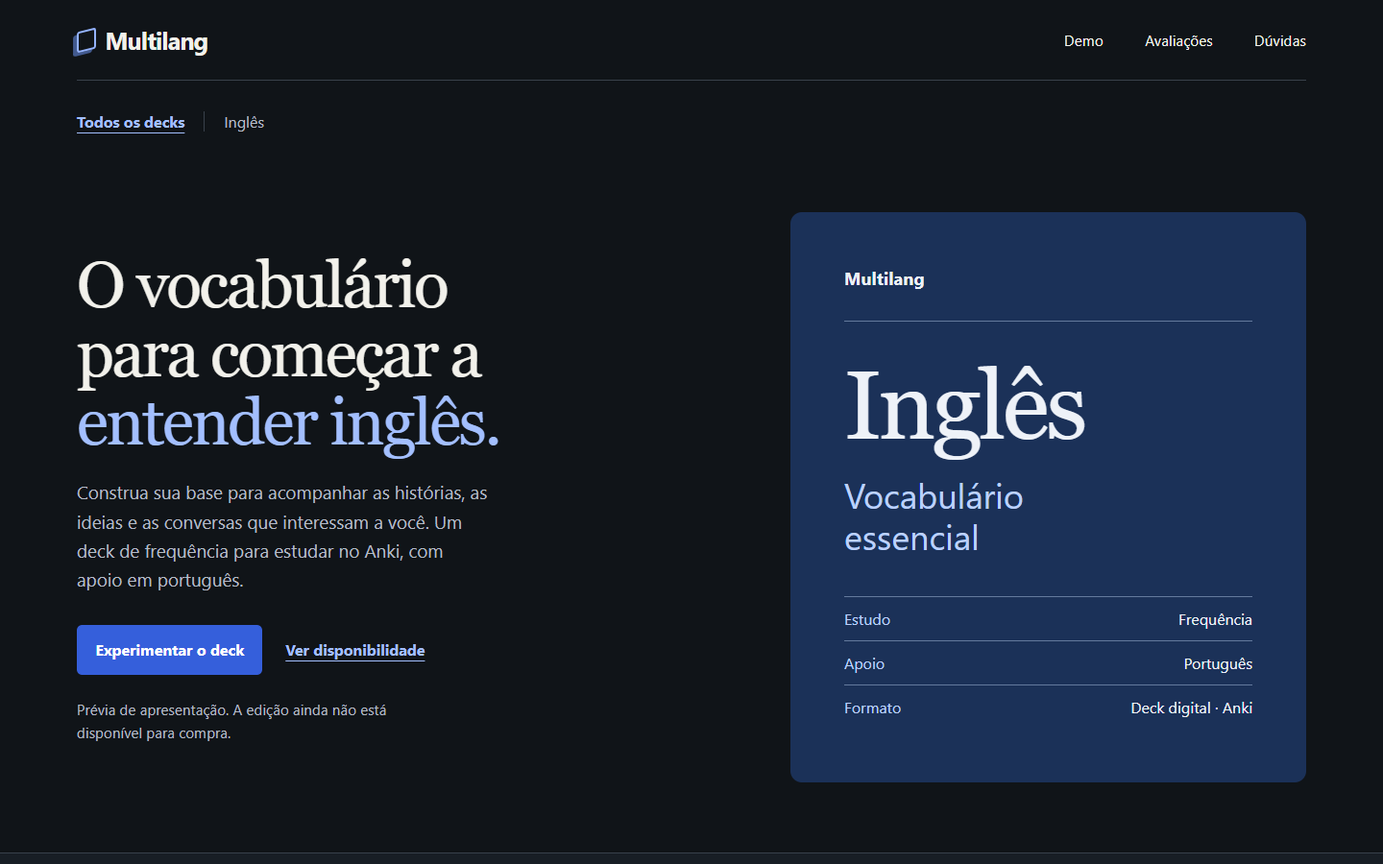
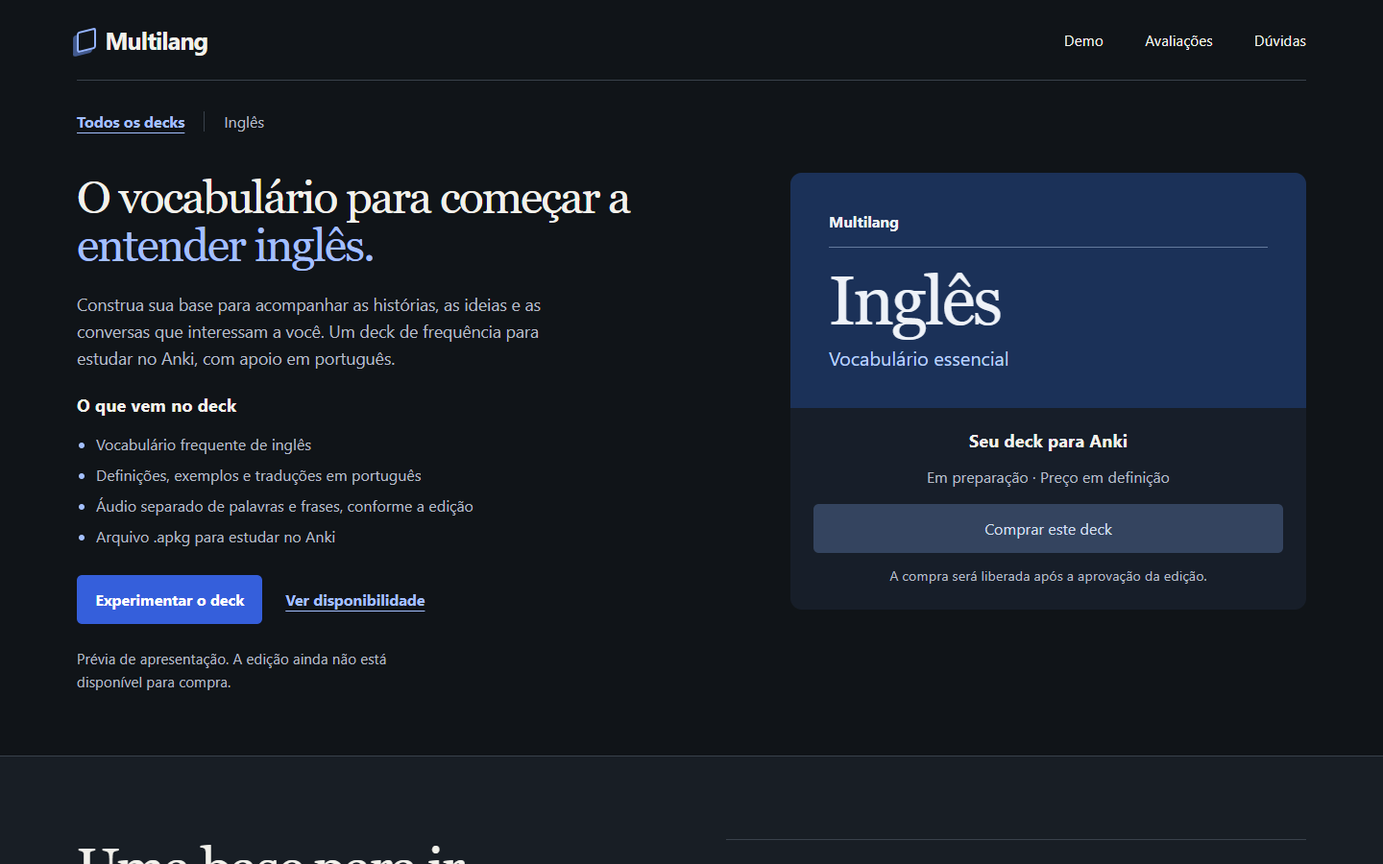
fix(web): align deck page layout with reference sequence

diff --git a/frontend/apps/web/decks/ingles-frequencia/index.html b/frontend/apps/web/decks/ingles-frequencia/index.html
@@ -25,46 +25,30 @@
       <div class="pitch">
         <h1 id="titulo">O vocabulário para começar a <span>entender inglês.</span></h1>
         <p class="intro">Construa sua base para acompanhar as histórias, as ideias e as conversas que interessam a você. Um deck de frequência para estudar no Anki, com apoio em português.</p>
+        <div id="incluido" class="hero-included">
+          <h2>O que vem no deck</h2>
+          <ul><li>Vocabulário frequente de inglês</li><li>Definições, exemplos e traduções em português</li><li>Áudio separado de palavras e frases, conforme a edição</li><li>Arquivo .apkg para estudar no Anki</li></ul>
+        </div>
         <div class="hero-actions"><a class="action" href="#demo">Experimentar o deck</a><a class="textlink" href="#adquirir">Ver disponibilidade</a></div>
         <p class="preview-note">Prévia de apresentação. A edição ainda não está disponível para compra.</p>
       </div>
-      <div class="deck-cover" aria-label="Apresentação do deck digital Inglês, Vocabulário essencial, da Multilang">
-        <span class="cover-brand">Multilang</span>
-        <p class="cover-language">Inglês</p>
-        <p class="cover-title">Vocabulário<br>essencial</p>
-        <dl class="cover-facts"><div><dt>Estudo</dt><dd>Frequência</dd></div><div><dt>Apoio</dt><dd>Português</dd></div><div><dt>Formato</dt><dd>Deck digital · Anki</dd></div></dl>
-      </div>
+      <aside class="product-offer" aria-label="Apresentação e disponibilidade do deck">
+        <div class="deck-cover" aria-label="Apresentação do deck digital Inglês, Vocabulário essencial, da Multilang">
+          <span class="cover-brand">Multilang</span><p class="cover-language">Inglês</p><p class="cover-title">Vocabulário essencial</p>
+        </div>
+        <div class="hero-offer"><h2>Seu deck para Anki</h2><p>Em preparação · Preço em definição</p><button class="action" type="button" disabled>Comprar este deck</button><p class="offer-note">A compra será liberada após a aprovação da edição.</p></div>
+      </aside>
     </section>
 
     <section id="sobre" class="product-band" aria-labelledby="titulo-sobre">
       <div class="shell split">
-        <div><h2 id="titulo-sobre">Uma base para ir<br>além das palavras soltas.</h2><p class="bodycopy">Este deck reúne a proposta da Multilang para estudar vocabulário frequente de inglês: palavras, significados e exemplos organizados em cartões para revisar no Anki.</p></div>
-        <div class="prose"><h3>Para que serve</h3><p>Para construir e revisar o vocabulário que ajuda você a acompanhar leituras, escuta e situações do dia a dia. Use as revisões junto do contato com o inglês, nos conteúdos e nas conversas que fazem parte da sua vida.</p><h3>Para quem faz sentido</h3><p>Para quem quer organizar o estudo de vocabulário e prefere explicações em português. A ficha da edição aprovada informará o conteúdo, o nível inicial e os pré-requisitos.</p></div>
+        <div class="prose"><h2 id="titulo-sobre">Uma base para ir<br>além das palavras soltas.</h2><p>Este deck reúne a proposta da Multilang para estudar vocabulário frequente de inglês: palavras, significados e exemplos organizados em cartões para revisar no Anki.</p><h3>Para que serve</h3><p>Para construir e revisar o vocabulário que ajuda você a acompanhar leituras, escuta e situações do dia a dia. Use as revisões junto do contato com o inglês, nos conteúdos e nas conversas que fazem parte da sua vida.</p><h3>Para quem faz sentido</h3><p>Para quem quer organizar o estudo de vocabulário e prefere explicações em português. A ficha da edição aprovada informará o conteúdo, o nível inicial e os pré-requisitos.</p></div>
+        <aside id="missao" class="mission" aria-labelledby="titulo-missao"><h3 id="titulo-missao">Nossa missão é aproximar você de outros idiomas.</h3><p>Na Multilang, queremos tornar o estudo de vocabulário mais acessível a quem aprende com apoio em português. Nossa proposta combina palavras úteis, conteúdo confiável e uma estrutura que você pode levar para sua rotina no Anki.</p><p>O objetivo é ajudar você a construir uma base para explorar o idioma com autonomia. Cada edição deve ser revisada e ter seu conteúdo apresentado com clareza antes da venda.</p></aside>
       </div>
     </section>
 
-    <section id="missao" class="mission shell" aria-labelledby="titulo-missao">
-      <h2 id="titulo-missao">Nossa missão é aproximar<br>você de outros idiomas.</h2>
-      <p>Na Multilang, queremos tornar o estudo de vocabulário mais acessível a quem aprende com apoio em português. Nossa proposta combina palavras úteis, conteúdo confiável e uma estrutura que você pode levar para sua rotina no Anki.</p>
-      <p>O objetivo é ajudar você a construir uma base para explorar o idioma com autonomia. Cada edição deve ser revisada e ter seu conteúdo apresentado com clareza antes da venda.</p>
-    </section>
-
-    <section id="caracteristicas" class="product-band" aria-labelledby="titulo-caracteristicas">
-      <div class="shell section-stack">
-        <div class="section-heading"><h2 id="titulo-caracteristicas">O que faz parte<br>do seu estudo</h2><p class="bodycopy">Os recursos abaixo descrevem a proposta desta edição. A versão aprovada terá contagens, amostra, áudios e condições de entrega confirmados na ficha.</p></div>
-        <dl class="feature-list">
-          <div><dt>Vocabulário frequente</dt><dd>Uma seleção organizada para construir sua base. A ficha apresentará a origem do vocabulário e separará a quantidade de palavras da quantidade de cartões.</dd></div>
-          <div><dt>Definições e exemplos</dt><dd>Significados, frases de exemplo e traduções em português para estudar o uso das palavras junto do vocabulário.</dd></div>
-          <div><dt>Áudio de palavras e frases</dt><dd>Gravações separadas para a palavra e para o exemplo. A edição informará os áudios disponíveis e identificará a voz sintetizada quando produzida pelo Azure.</dd></div>
-          <div><dt>Espaço para suas imagens</dt><dd>O campo de imagem começa vazio. Depois de importar o deck, você pode acrescentar no Anki imagens que tenham sentido para o seu estudo.</dd></div>
-          <div><dt>Revisões no Anki</dt><dd>O aplicativo agenda as próximas revisões conforme suas respostas. A prática continua no Anki, junto da sua rotina de leitura, escuta e uso do idioma.</dd></div>
-          <div><dt>Download em .apkg</dt><dd>O formato de entrega previsto é um pacote para importar no Anki. A página da versão publicada trará as instruções de importação e atualização.</dd></div>
-        </dl>
-      </div>
-    </section>
-
-    <section id="demo" class="demo-section shell split" aria-labelledby="titulo-demo" tabindex="-1">
-      <div><h2 id="titulo-demo">Experimente<br>uma revisão.</h2><p class="bodycopy">Leia o exemplo e revele o significado. É uma forma de conhecer a interação antes de escolher seu deck.</p><p class="demo-note">Este cartão foi reaproveitado da demonstração do Estúdio. Ainda não é a amostra de uma edição à venda. O áudio não está disponível nesta prévia.</p></div>
+    <section id="demo" class="demo-section shell section-stack" aria-labelledby="titulo-demo" tabindex="-1">
+      <div class="section-heading"><h2 id="titulo-demo">Experimente uma revisão.</h2><p class="bodycopy">Leia o exemplo e revele o significado. É uma forma de conhecer a interação antes de escolher seu deck.</p><p class="demo-note">Este cartão foi reaproveitado da demonstração do Estúdio. Ainda não é a amostra de uma edição à venda. O áudio não está disponível nesta prévia.</p></div>
       <div class="demo-surface">
         <div class="study-card">
           <p class="sample-label">Amostra de interface · Inglês</p>
@@ -78,12 +62,32 @@
       </div>
     </section>
 
-    <section id="avaliacoes" class="product-band" aria-labelledby="titulo-avaliacoes">
-      <div class="shell split"><div><h2 id="titulo-avaliacoes">A experiência<br>de quem estuda</h2><p class="bodycopy">Aqui você poderá conhecer os relatos de alunos que usarem esta edição.</p></div><div class="empty-reviews"><h3>Ainda sem avaliações</h3><p>Este deck ainda não foi lançado. As avaliações aparecerão após existirem relatos reais de quem estudou com a edição.</p></div></div>
+    <section id="caracteristicas" class="product-band" aria-labelledby="titulo-caracteristicas">
+      <div class="shell section-stack">
+        <div class="section-heading"><h2 id="titulo-caracteristicas">Características do deck</h2><p class="bodycopy">Os recursos abaixo descrevem a proposta desta edição. A versão aprovada terá contagens, amostra, áudios e condições de entrega confirmados na ficha.</p></div>
+        <dl class="feature-list">
+          <div><dt>Vocabulário frequente</dt><dd>Uma seleção organizada para construir sua base. A ficha apresentará a origem do vocabulário e separará a quantidade de palavras da quantidade de cartões.</dd></div>
+          <div><dt>Definições e exemplos</dt><dd>Significados, frases de exemplo e traduções em português para estudar o uso das palavras junto do vocabulário.</dd></div>
+          <div><dt>Áudio de palavras e frases</dt><dd>Gravações separadas para a palavra e para o exemplo. A edição informará os áudios disponíveis e identificará a voz sintetizada quando produzida pelo Azure.</dd></div>
+          <div><dt>Espaço para suas imagens</dt><dd>O campo de imagem começa vazio. Depois de importar o deck, você pode acrescentar no Anki imagens que tenham sentido para o seu estudo.</dd></div>
+          <div><dt>Revisões no Anki</dt><dd>O aplicativo agenda as próximas revisões conforme suas respostas. A prática continua no Anki, junto da sua rotina de leitura, escuta e uso do idioma.</dd></div>
+          <div><dt>Download em .apkg</dt><dd>O formato de entrega previsto é um pacote para importar no Anki. A página da versão publicada trará as instruções de importação e atualização.</dd></div>
+        </dl>
+      </div>
     </section>
 
-    <section id="duvidas" class="shell split" aria-labelledby="titulo-duvidas">
-      <h2 id="titulo-duvidas">O que você<br>quer saber?</h2>
+    <section id="avaliacoes" class="product-band" aria-labelledby="titulo-avaliacoes">
+      <div class="shell section-stack"><div class="section-heading"><h2 id="titulo-avaliacoes">A experiência de quem estuda</h2><p class="bodycopy">Aqui você poderá conhecer os relatos de alunos que usarem esta edição.</p></div><div class="empty-reviews"><h3>Ainda sem avaliações</h3><p>Este deck ainda não foi lançado. As avaliações aparecerão após existirem relatos reais de quem estudou com a edição.</p></div></div>
+    </section>
+
+    <section id="adquirir" class="purchase-section" aria-labelledby="titulo-compra">
+      <div class="shell section-stack"><div class="section-heading"><h2 id="titulo-compra">Seu próximo passo no inglês.</h2><p class="bodycopy">Confira a amostra, o conteúdo e os pré-requisitos antes de escolher. O deck deve fazer sentido para o seu momento de estudo.</p></div><div class="purchase-summary"><h3>Inglês · Vocabulário essencial</h3><dl><div><dt>Disponibilidade</dt><dd>Em preparação</dd></div><div><dt>Preço em reais</dt><dd>Em definição</dd></div><div><dt>Formato previsto</dt><dd>Arquivo .apkg para Anki</dd></div></dl><button class="action" type="button" disabled>Compra ainda indisponível</button><p>Você está vendo uma prévia. Nenhum pagamento é solicitado.</p></div></div>
+    </section>
+
+    <section id="entrega" class="shell section-stack" aria-labelledby="titulo-entrega"><div class="section-heading"><h2 id="titulo-entrega">Entrega e atualizações</h2><p class="bodycopy">Antes da venda, a ficha da edição informará como receber o arquivo, importar no Anki e acessar as atualizações incluídas na compra. Preço e condições comerciais ainda estão em definição.</p></div></section>
+
+    <section id="duvidas" class="shell section-stack" aria-labelledby="titulo-duvidas">
+      <h2 id="titulo-duvidas">Perguntas frequentes</h2>
       <div class="faq">
         <details><summary>O que é um deck para Anki?</summary><p>É um conjunto de cartões de estudo que você importa no Anki. Você tenta lembrar o conteúdo, confere a resposta e informa como foi a revisão para o aplicativo agendar a próxima.</p></details>
         <details><summary>Preciso saber inglês para começar?</summary><p>As explicações e traduções desta proposta são em português. Os conhecimentos necessários e o público indicado serão informados na ficha da versão aprovada.</p></details>
@@ -95,9 +99,6 @@
       </div>
     </section>
 
-    <section id="adquirir" class="purchase-section" aria-labelledby="titulo-compra">
-      <div class="shell split"><div><h2 id="titulo-compra">Seu próximo passo<br>no inglês.</h2><p class="bodycopy">Confira a amostra, o conteúdo e os pré-requisitos antes de escolher. O deck deve fazer sentido para o seu momento de estudo.</p></div><div class="purchase-summary"><h3>Inglês · Vocabulário essencial</h3><dl><div><dt>Disponibilidade</dt><dd>Em preparação</dd></div><div><dt>Preço em reais</dt><dd>Em definição</dd></div><div><dt>Formato previsto</dt><dd>Arquivo .apkg para Anki</dd></div></dl><button class="action" type="button" disabled>Compra ainda indisponível</button><p>Você está vendo uma prévia. Nenhum pagamento é solicitado.</p></div></div>
-    </section>
   </main>
   <footer class="shell"><span>Multilang</span><a href="../../index.html#catalogo">Voltar à Loja</a></footer>
 </body>

diff --git a/frontend/apps/web/decks/ingles-frequencia/product.css b/frontend/apps/web/decks/ingles-frequencia/product.css
@@ -1,42 +1,52 @@
 .breadcrumb { display: flex; align-items: center; gap: 1.25rem; padding-top: 1.25rem; color: var(--muted); }
 .breadcrumb a { display: inline-flex; align-items: center; min-height: 44px; }
 .breadcrumb span { border-left: 1px solid var(--line); padding-left: 1.25rem; }
-.product-hero { display: grid; grid-template-columns: 1.1fr .9fr; align-items: center; gap: clamp(2rem, 6vw, 6rem); padding-block: clamp(2.5rem, 5vw, 5rem); min-height: calc(100svh - 160px); }
-.product-hero h1 { font-size: clamp(2.7rem, 4.7vw, 4.7rem); }
+.product-hero { display: grid; grid-template-columns: 1.1fr .9fr; align-items: start; gap: clamp(2rem, 6vw, 6rem); padding-block: 2rem 4rem; }
+.product-hero h1 { font-size: clamp(2.3rem, 3.3vw, 3.1rem); }
+.product-hero .intro { font-size: 1.1rem; max-width: 52ch; margin-bottom: 1.5rem; }
+.hero-included { margin-bottom: 1.5rem; }
+.hero-included h2, .hero-offer h2 { font-family: inherit; font-size: 1.15rem; font-weight: 650; letter-spacing: 0; }
+.hero-included ul { margin: 0; padding-left: 1.25rem; color: var(--muted); line-height: 1.6; }
+.hero-included li { padding-block: .2rem; }
+.hero-included li::marker { color: var(--blue); }
 .preview-note, .demo-note { font-size: .95rem; color: var(--muted); line-height: 1.6; max-width: 44ch; }
 .preview-note { margin: 1.5rem 0 0; }
-.deck-cover { background: #1b3158; color: #eef2f8; padding: clamp(2rem, 4vw, 3.5rem); border-radius: 12px; }
-.cover-brand { display: block; padding-bottom: 2rem; border-bottom: 1px solid #647a9d; font-size: 1.15rem; font-weight: 650; }
-.cover-language { font: 400 clamp(4rem, 7vw, 7rem)/1.1 Georgia, serif; letter-spacing: -.035em; margin: 2rem 0 1rem; }
-.cover-title { color: #bcd1fb; font-size: clamp(1.6rem, 2.5vw, 2.3rem); line-height: 1.2; margin-bottom: 2.5rem; }
-.cover-facts { margin: 0; }
-.cover-facts div { display: flex; justify-content: space-between; flex-wrap: wrap; gap: .5rem; border-top: 1px solid #647a9d; padding-block: .75rem; }
-.cover-facts dt { color: #bcd1fb; }
-.cover-facts dd { margin: 0; }
+.product-offer { background: #171e29; border-radius: 12px; overflow: hidden; }
+.deck-cover { background: #1b3158; color: #eef2f8; padding: clamp(1.5rem, 3vw, 2.5rem); }
+.cover-brand { display: block; padding-bottom: 1rem; border-bottom: 1px solid #647a9d; font-size: 1rem; font-weight: 650; }
+.cover-language { font: 400 clamp(3.5rem, 5vw, 5rem)/1.1 Georgia, serif; letter-spacing: -.035em; margin: 1rem 0 .5rem; }
+.cover-title { color: #bcd1fb; font-size: 1.25rem; line-height: 1.2; margin-bottom: 0; }
+.hero-offer { padding: 1.5rem; text-align: center; }
+.hero-offer p { color: var(--muted); line-height: 1.5; }
+.hero-offer .offer-note { font-size: .9rem; margin: .85rem 0 0; }
+.hero-offer button { width: 100%; justify-content: center; min-height: 48px; border: 0; font: inherit; }
+.hero-offer button:disabled { background: #34445f; color: #d3deef; cursor: not-allowed; transform: none; }
 .product-band { background: #181e25; border-block: 1px solid var(--line); }
 .prose p, .mission p, .empty-reviews p { color: var(--muted); line-height: 1.65; }
 .prose p { margin-bottom: 2rem; max-width: 52ch; }
 .prose p:last-child { margin-bottom: 0; }
 .prose h3 { margin-bottom: .75rem; }
-.mission { padding-block: clamp(3.5rem, 7vw, 7rem); }
-.mission h2 { max-width: 24ch; margin-bottom: 1.7rem; }
-.mission p { max-width: 68ch; font-size: 1.15rem; }
+#sobre .split { align-items: start; }
+.mission { border-top: 1px solid var(--line); padding-top: 1.5rem; }
+.mission h3 { font: 400 clamp(1.8rem, 2.6vw, 2.5rem)/1.15 Georgia, serif; max-width: 25ch; margin-bottom: 1.3rem; }
+.mission p { max-width: 52ch; font-size: 1.05rem; }
 .mission p:last-child { margin-bottom: 0; }
-.section-stack { padding-block: clamp(3.5rem, 7vw, 7rem); }
-.section-heading { display: grid; grid-template-columns: 1fr 1fr; gap: clamp(2rem, 5vw, 6rem); align-items: start; margin-bottom: 3rem; }
-.feature-list { margin: 0; }
-.feature-list div { display: grid; grid-template-columns: 1fr 1fr; gap: clamp(1rem, 5vw, 6rem); padding-block: 1.6rem; border-top: 1px solid var(--line); }
-.feature-list dt { font-size: 1.25rem; font-weight: 650; }
+.section-stack { padding-block: clamp(3rem, 5vw, 5rem); }
+.section-heading { text-align: center; margin-bottom: 2.5rem; }
+.section-heading .bodycopy, .section-heading .demo-note { max-width: 68ch; margin-inline: auto; }
+.feature-list { display: grid; grid-template-columns: repeat(3, minmax(0, 1fr)); gap: 1rem 2rem; margin: 0; }
+.feature-list div { padding-block: 1.6rem; border-top: 1px solid var(--line); }
+.feature-list dt { font-size: 1.25rem; font-weight: 650; margin-bottom: .8rem; }
 .feature-list dd { margin: 0; color: var(--muted); line-height: 1.6; max-width: 52ch; }
 .demo-section:focus { outline: 3px solid #feae68; outline-offset: 4px; }
-.demo-surface { padding: clamp(1.25rem, 3vw, 3rem); background: #1b3158; border-radius: 12px; }
+.demo-surface { max-width: 650px; margin-inline: auto; padding: clamp(1.25rem, 3vw, 3rem); background: #1b3158; border-radius: 12px; }
 .study-card { color-scheme: light; color: #1b273a; background: #f4f0e8; padding: clamp(1.4rem, 3vw, 3rem); border-radius: 12px; }
 .study-card .word { letter-spacing: -.035em; }
-.empty-reviews { border-top: 1px solid var(--line); padding-top: 1.5rem; }
+.empty-reviews { max-width: 650px; margin-inline: auto; border-top: 1px solid var(--line); padding-top: 1.5rem; text-align: center; }
 .empty-reviews h3 { margin-bottom: .75rem; }
 .purchase-section { background: #1b2b48; }
 .purchase-section .bodycopy { color: #c6d5ee; }
-.purchase-summary { padding-block: 1rem; }
+.purchase-summary { max-width: 700px; margin-inline: auto; padding-block: 1rem; }
 .purchase-summary dl { margin-block: 1.5rem; }
 .purchase-summary dl div { display: flex; flex-wrap: wrap; justify-content: space-between; gap: .5rem 1rem; padding-block: 1rem; border-top: 1px solid #60718f; }
 .purchase-summary dt { color: #c6d5ee; }
@@ -44,12 +54,16 @@
 .purchase-summary button { width: 100%; justify-content: center; border: 0; font: inherit; min-height: 52px; }
 .purchase-summary button:disabled { background: #34445f; color: #d3deef; cursor: not-allowed; transform: none; }
 .purchase-summary > p { color: #c6d5ee; font-size: .95rem; line-height: 1.6; margin: 1rem 0 0; }
+#entrega .section-heading { margin-bottom: 0; }
+#duvidas { padding-top: 0; }
+#duvidas h2 { text-align: center; margin-bottom: 2.5rem; }
+#duvidas .faq { max-width: 900px; margin-inline: auto; }
 @media (prefers-reduced-motion: no-preference) { .product-hero .pitch { animation: arrive .45s ease-out; } }
+@media (min-width: 761px) and (max-width: 1023px) { .feature-list { grid-template-columns: repeat(2, minmax(0, 1fr)); } }
 @media (max-width: 760px) {
-  .product-hero, .section-heading, .feature-list div { grid-template-columns: 1fr; }
-  .product-hero { min-height: auto; padding-block: 2rem 3rem; }
+  .product-hero, .feature-list { grid-template-columns: 1fr; }
+  .product-hero { padding-block: 2rem 3rem; }
   .deck-cover { max-width: 100%; }
-  .feature-list div { gap: .75rem; }
   .section-heading { margin-bottom: 2rem; }
   .product-page .hero-actions a { min-height: 48px; }
 }

diff --git a/frontend/scripts/check-storefront-ui.py b/frontend/scripts/check-storefront-ui.py
@@ -55,6 +55,23 @@ def main():
                 check_links(page)
                 for section in ("sobre", "missao", "caracteristicas", "demo", "avaliacoes", "duvidas", "adquirir"):
                     expect(page.locator(f"#{section}")).to_be_visible()
+                section_order = page.locator("main > section[id]").evaluate_all(
+                    "sections => sections.map(section => section.id)"
+                )
+                assert section_order == [
+                    "sobre", "demo", "caracteristicas", "avaliacoes", "adquirir", "entrega", "duvidas"
+                ], section_order
+                positions = [page.locator(f"#{section}").bounding_box()["y"] for section in section_order]
+                assert positions == sorted(positions), (width, positions)
+                expect(page.locator(".product-hero #incluido")).to_be_visible()
+                expect(page.locator(".product-hero .hero-offer button")).to_be_disabled()
+                expect(page.locator("#sobre #missao")).to_be_visible()
+                if width > 760:
+                    offer = page.locator(".hero-offer button").bounding_box()
+                    assert offer["y"] + offer["height"] <= page.viewport_size["height"], width
+                    pitch = page.locator(".product-hero .pitch").bounding_box()
+                    sidebar = page.locator(".product-offer").bounding_box()
+                    assert sidebar["x"] >= pitch["x"] + pitch["width"], width
                 page.keyboard.press("Tab")
                 expect(page.locator(".skip")).to_be_focused()
                 page.keyboard.press("Enter")

diff --git a/docs/product-interface.md b/docs/product-interface.md
@@ -142,16 +142,24 @@ usa `frontend/apps/web/decks/ingles-frequencia/index.html`, ligada à entrada de
 demonstração no catálogo. Essa entrada é identificada como prévia e não constitui
 uma edição publicada ou disponível para venda.
 
-A página apresenta:
+A página segue esta disposição, conferida na referência Refold:
 
-1. O idioma e o objetivo do deck, com uma apresentação visual da edição.
-2. O que é, para que serve, a quem se destina e os pré-requisitos.
-3. A missão da Multilang, com foco em vocabulário confiável e apoio em português.
-4. Conteúdo e características: vocabulário, definições, exemplos, traduções,
+1. Abertura em duas colunas no computador: nome, descrição e resumo do conteúdo
+   à esquerda; apresentação visual e compra à direita, já na primeira tela.
+2. Explicação sobre o deck, finalidade, público e pré-requisitos. A missão da
+   Multilang aparece ao lado dessa explicação, sem uma seção separada entre ela
+   e a demonstração.
+3. Demonstração na própria página, com frente e verso interativos.
+4. Características em colunas: vocabulário, definições, exemplos, traduções,
    áudio separado de palavra e frase, campo de imagem vazio e pacote .apkg.
-5. Demonstração na própria página, com frente e verso interativos.
-6. Avaliações da edição e perguntas frequentes sobre estudo e compra.
-7. Disponibilidade, preço final em BRL, entrega, atualizações e ação de compra.
+5. Avaliações da edição.
+6. Oferta de compra avulsa, com disponibilidade, preço final em BRL e ação de compra.
+7. Informações de entrega e atualizações, sem assumir a garantia comercial de terceiros.
+8. Perguntas frequentes no final da página.
+
+No celular, as colunas se empilham preservando essa sequência. A verificação
+`frontend/scripts/check-storefront-ui.py` confere a ordem visual das seções,
+a compra ao lado da apresentação no computador e a demonstração antes das características.
 
 A direção grafite e azul é preservada. Capa tipográfica, texto, missão e
 composição pertencem à Multilang; a referência Refold orienta a função comercial,
@@ -160,7 +168,7 @@ sem fornecer arte, textos, depoimentos ou promessas para a página.
 A demonstração de inglês reaproveita o cartão `gather` do Estúdio; não gera
 conteúdo novo nem áudio. Está identificada como amostra de interface, com áudio
 indisponível. As avaliações estão vazias, sem nota, estrelas ou relatos inventados.
-Preço está em definição e o botão final permanece desabilitado. Na publicação de
+Preço está em definição e os botões de compra permanecem desabilitados. Na publicação de
 uma edição real, substituir a demo por cartões e mídia daquela versão, confirmar
 contagens e requisitos, e implementar a oferta e o checkout. Separar identidades
 lexicais e cartões; não usar faixas de frequência como certificados.

diff --git a/frontend/README.md b/frontend/README.md
@@ -23,7 +23,8 @@ python frontend/scripts/check-storefront-ui.py --screenshots
 ```
 
 A verificação percorre Loja → Comprar → página do deck → Loja em seis larguras,
-inclui teclado, demo e perguntas frequentes, e não chama provedores nem pagamentos.
+confere a ordem visual das seções e a oferta na abertura, inclui teclado, demo e
+perguntas frequentes, e não chama provedores nem pagamentos.
 As capturas ficam em `output/previews/loja-publica/` e os resultados em
 `output/reports/deck-product-page/`. O parâmetro `--screenshots` é opcional.
 
